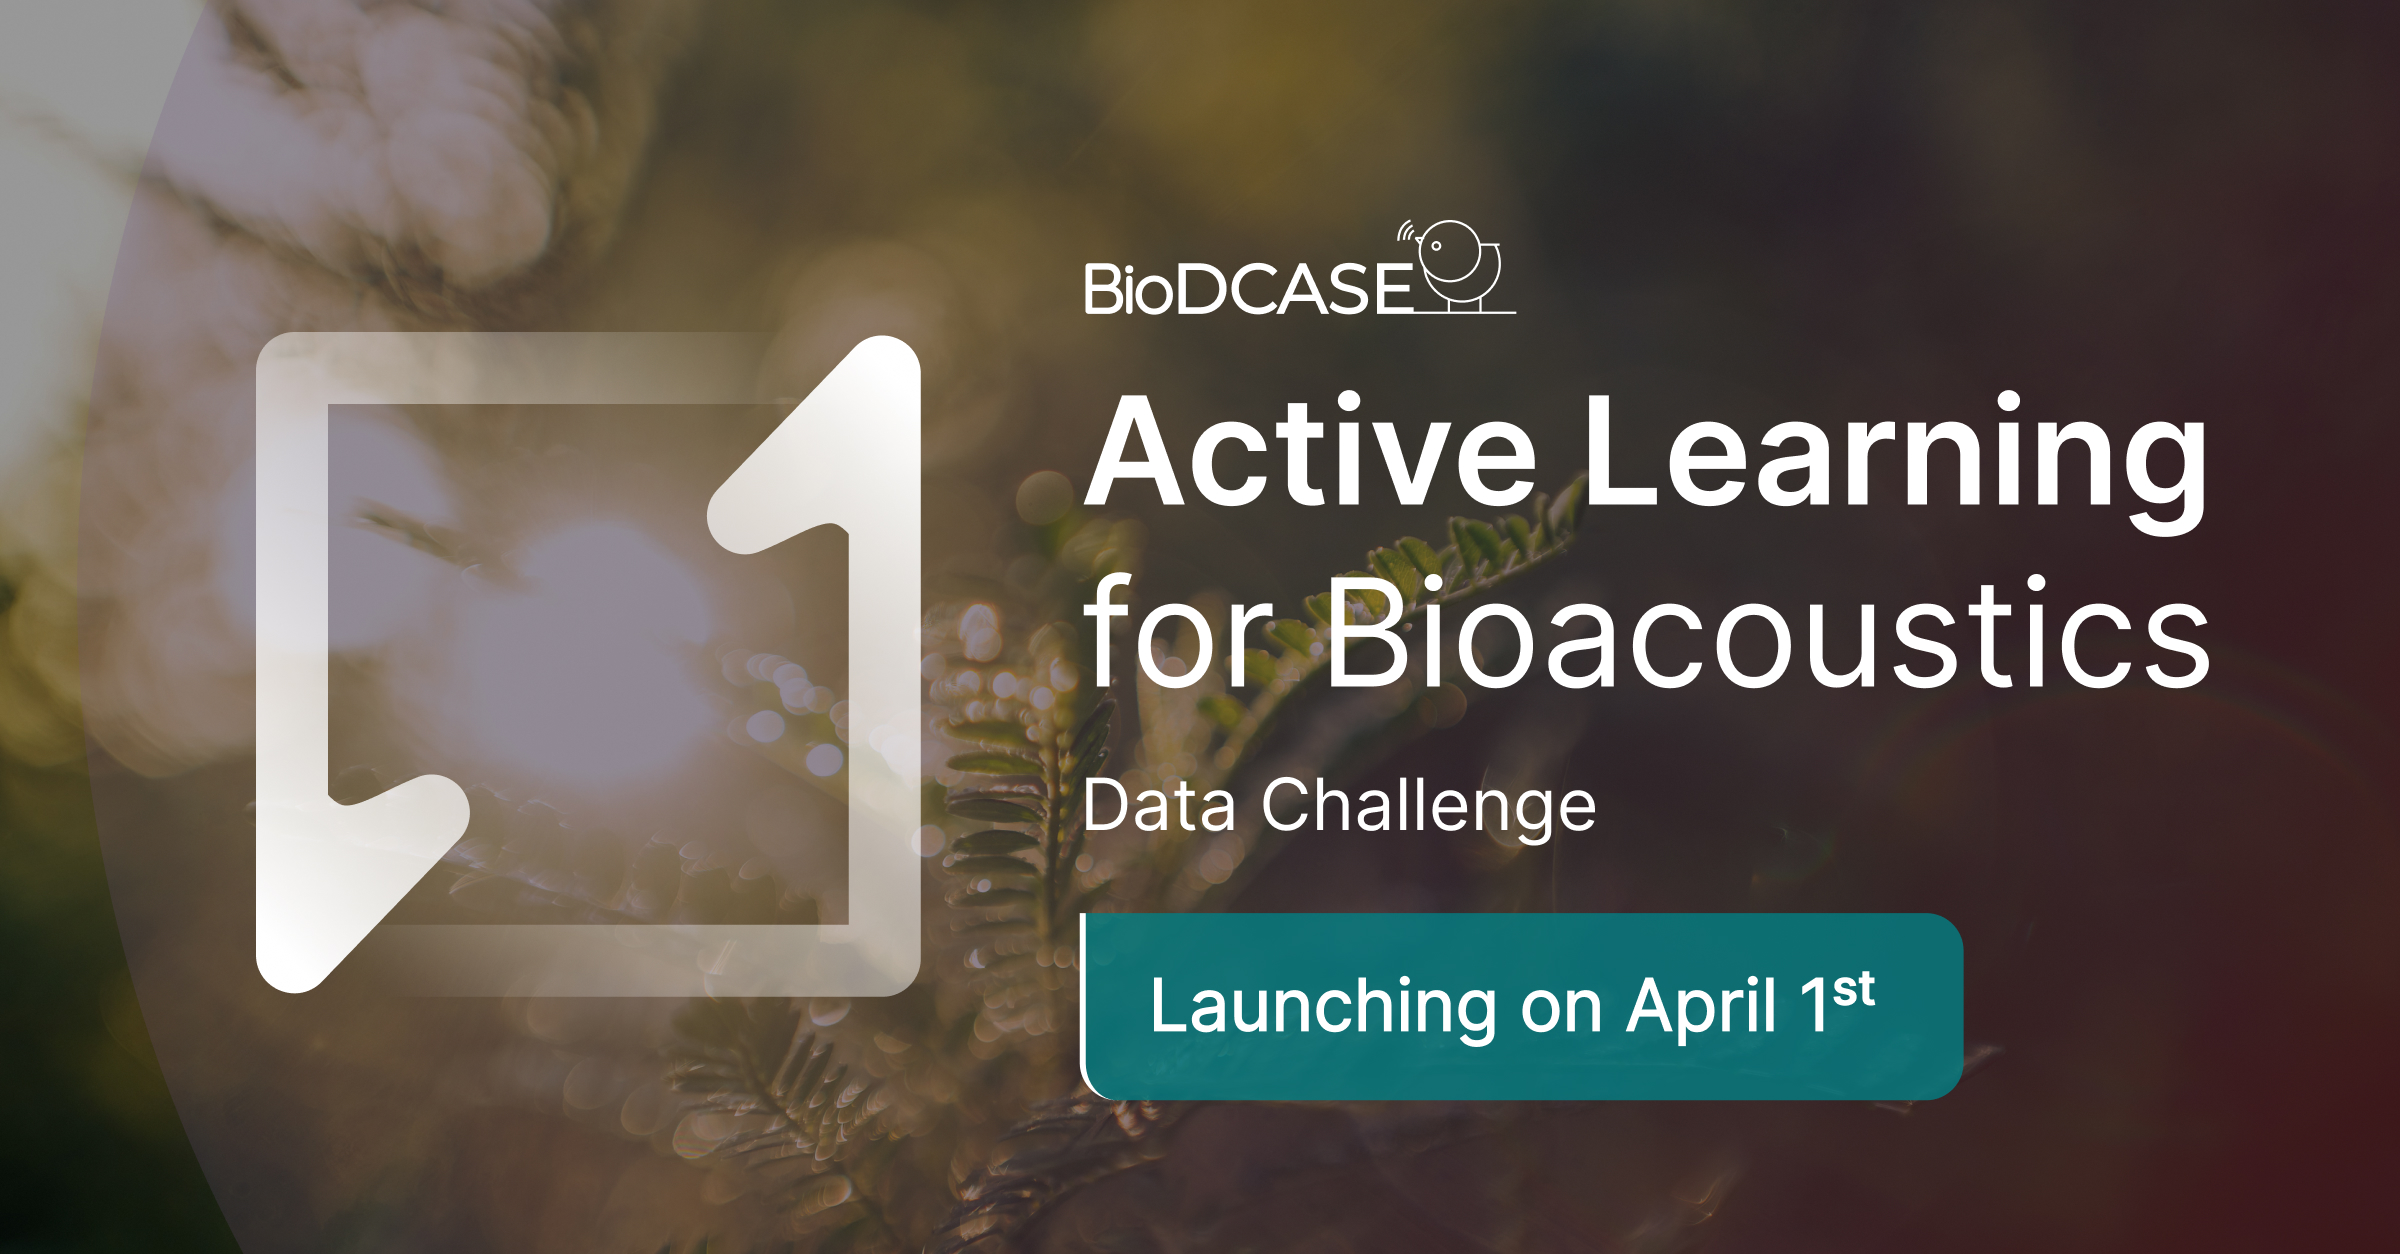
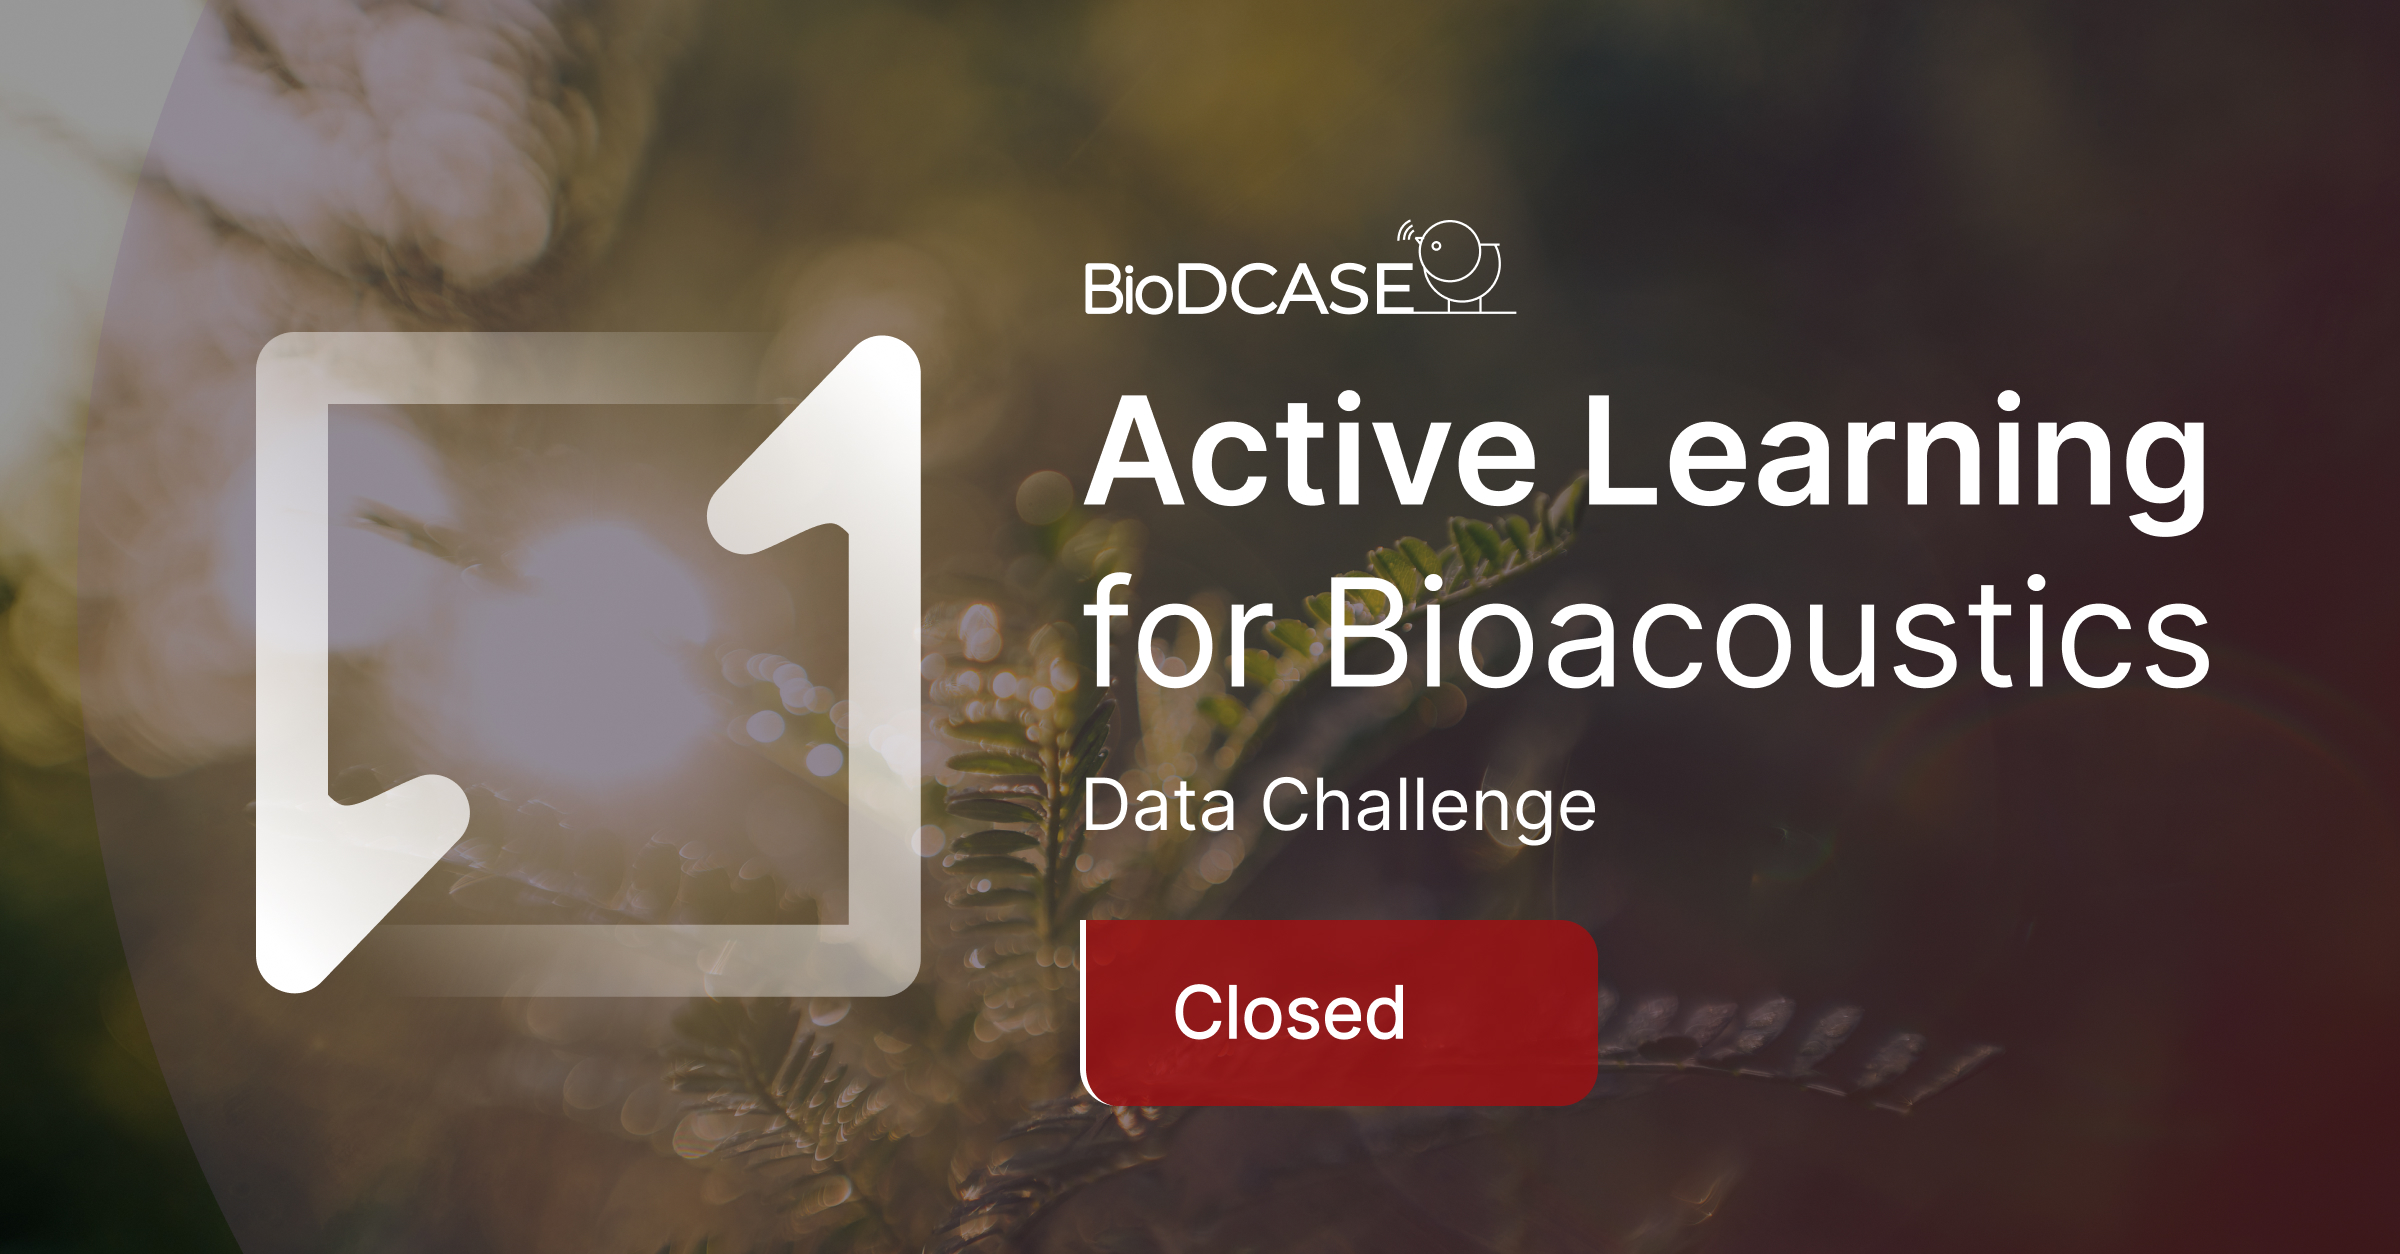
Update leaderboard and closed challenge

Changed region(s): [[0.4375, 0.7153, 0.8438, 0.9019]]

diff --git a/app/src/components/pages/BioDCASE.jsx b/app/src/components/pages/BioDCASE.jsx
@@ -9,6 +9,24 @@ const leaderboardEntries = [
   { team: 'WayneYang', method: 'safe_rarity', aulc: 0.49079, compCostRelative: 1.0, wallTime: 0.074, annotationCost: 1085.65 }
 ];
 
+const finalRanking = [
+  { team: 'GabrielDubus',       method: 'ADU-MMR',                           aulc: 0.50670, compCostRelative: 2.0, wallTime: 1.00562, annotationCost: 1026.70 },
+  { team: 'HugoMagaldi',        method: 'CARE-DPP',                          aulc: 0.50477, compCostRelative: 1.1, wallTime: 0.21549, annotationCost: 1124.55 },
+  { team: 'HaoyuWang',          method: 'PB-MFS',                            aulc: 0.49855, compCostRelative: 1.6, wallTime: 0.48520, annotationCost: 1109.90 },
+  { team: 'WayneYang',          method: 'SafeRarity',                        aulc: 0.49194, compCostRelative: 1.0, wallTime: 0.38489, annotationCost: 1116.00 },
+  { team: 'MdRagibAminNihal',   method: 'CappedRarityKCenter',               aulc: 0.48082, compCostRelative: 0.9, wallTime: 0.12778, annotationCost: 1134.45 },
+  { team: 'JaquelineGarciaYi',  method: 'AFL',                               aulc: 0.47691, compCostRelative: 1.6, wallTime: 1.33255, annotationCost: 1031.80 },
+  { team: 'CleaParcerisas',     method: 'CoresetKMeans',                     aulc: 0.46909, compCostRelative: 1.0, wallTime: 4.09477, annotationCost: 1012.25 },
+  { team: 'Baseline',           method: 'Coreset',                           aulc: 0.46381, compCostRelative: 1.0, wallTime: 5.83834, annotationCost: 1023.60 },
+  { team: 'CleaParcerisas',     method: 'CoresetEigenvalues',                aulc: 0.43481, compCostRelative: 0.8, wallTime: 7.79982, annotationCost: 1010.60 },
+  { team: 'Baseline',           method: 'TypiClust',                         aulc: 0.42133, compCostRelative: 1.0, wallTime: 5.07597, annotationCost:  958.95 },
+  { team: 'Baseline',           method: 'MarginMultilabel',                  aulc: 0.40813, compCostRelative: 1.0, wallTime: 0.00242, annotationCost: 1263.65 },
+  { team: 'Baseline',           method: 'Random',                            aulc: 0.40133, compCostRelative: 1.0, wallTime: 0.00116, annotationCost:  966.05 },
+  { team: 'CleaParcerisas',     method: 'AllQuantilesKMeans',                aulc: 0.39697, compCostRelative: 1.0, wallTime: 0.32985, annotationCost:  992.05 },
+  { team: 'CleaParcerisas',     method: 'BalanceClassByClustersEigenvalues', aulc: 0.39309, compCostRelative: 0.8, wallTime: 0.10986, annotationCost: 1039.00 },
+];
+
+
 const teamMembers = [
   {
     id: 1,
@@ -408,7 +426,7 @@ function Timeline() {
 }
 
 function Leaderboard() {
-  const sorted = [...leaderboardEntries].sort((a, b) => b.aulc - a.aulc);
+  const sorted = [...finalRanking].sort((a, b) => b.aulc - a.aulc);
 
   const headerStyle = {
     padding: '10px 14px',
@@ -434,8 +452,8 @@ function Leaderboard() {
 
   return (
     <>
-      <h2>Leaderboard</h2>
-      <p>If you wish to participate in the development set leaderboard, please email your submissions directly to Ben McEwen (<em>benmcewen@outlook.com</em>).</p>
+      <h2>Final Leaderboard</h2>
+      <p>The BioDCASE challenge has now closed and further leaderboard submissions are unavailable.</p>
       <div style={{
         background: 'linear-gradient(135deg, rgba(74, 180, 226, 0.1), rgba(74, 180, 226, 0.03))',
         border: '1px solid rgba(74, 180, 226, 0.25)',

diff --git a/core/active_learner.py b/core/active_learner.py
@@ -585,14 +585,22 @@ class ActiveLearner:
         # --- Build embedding filenames and filter to existing files -----------
         # Construct expected embedding path for every annotation row
         stems = df['filename'].apply(lambda f: Path(f).stem)
-        embedding_names = stems + f".npy" # NOTE: _{self.model_name}
+        embedding_names = stems + ".npy"
 
         # Single directory listing instead of N individual Path.exists() calls
         existing_files = set(p.name for p in self.embeddings_dir.iterdir())
         exists_mask = embedding_names.isin(existing_files)
 
-        # If no exact matches, try suffix matching (embedding files may have a deployment prefix
-        # separated by '__', e.g. "deployment__<stem>_<model>.npy")
+        # Fallback 1: files stored as {stem}_{model_name}.npy (e.g. ATBFL embeddings)
+        if not exists_mask.any():
+            embedding_names_model = stems + f"_{self.model_name}.npy"
+            model_mask = embedding_names_model.isin(existing_files)
+            if model_mask.any():
+                embedding_names = embedding_names_model
+                exists_mask = model_mask
+
+        # Fallback 2: deployment-prefixed files separated by '__'
+        # e.g. "deployment__<stem>.npy" or "deployment__<stem>_<model>.npy"
         if not exists_mask.any():
             suffix_map = {f.split('__', 1)[-1]: f for f in existing_files}
             exists_mask = embedding_names.isin(suffix_map)
